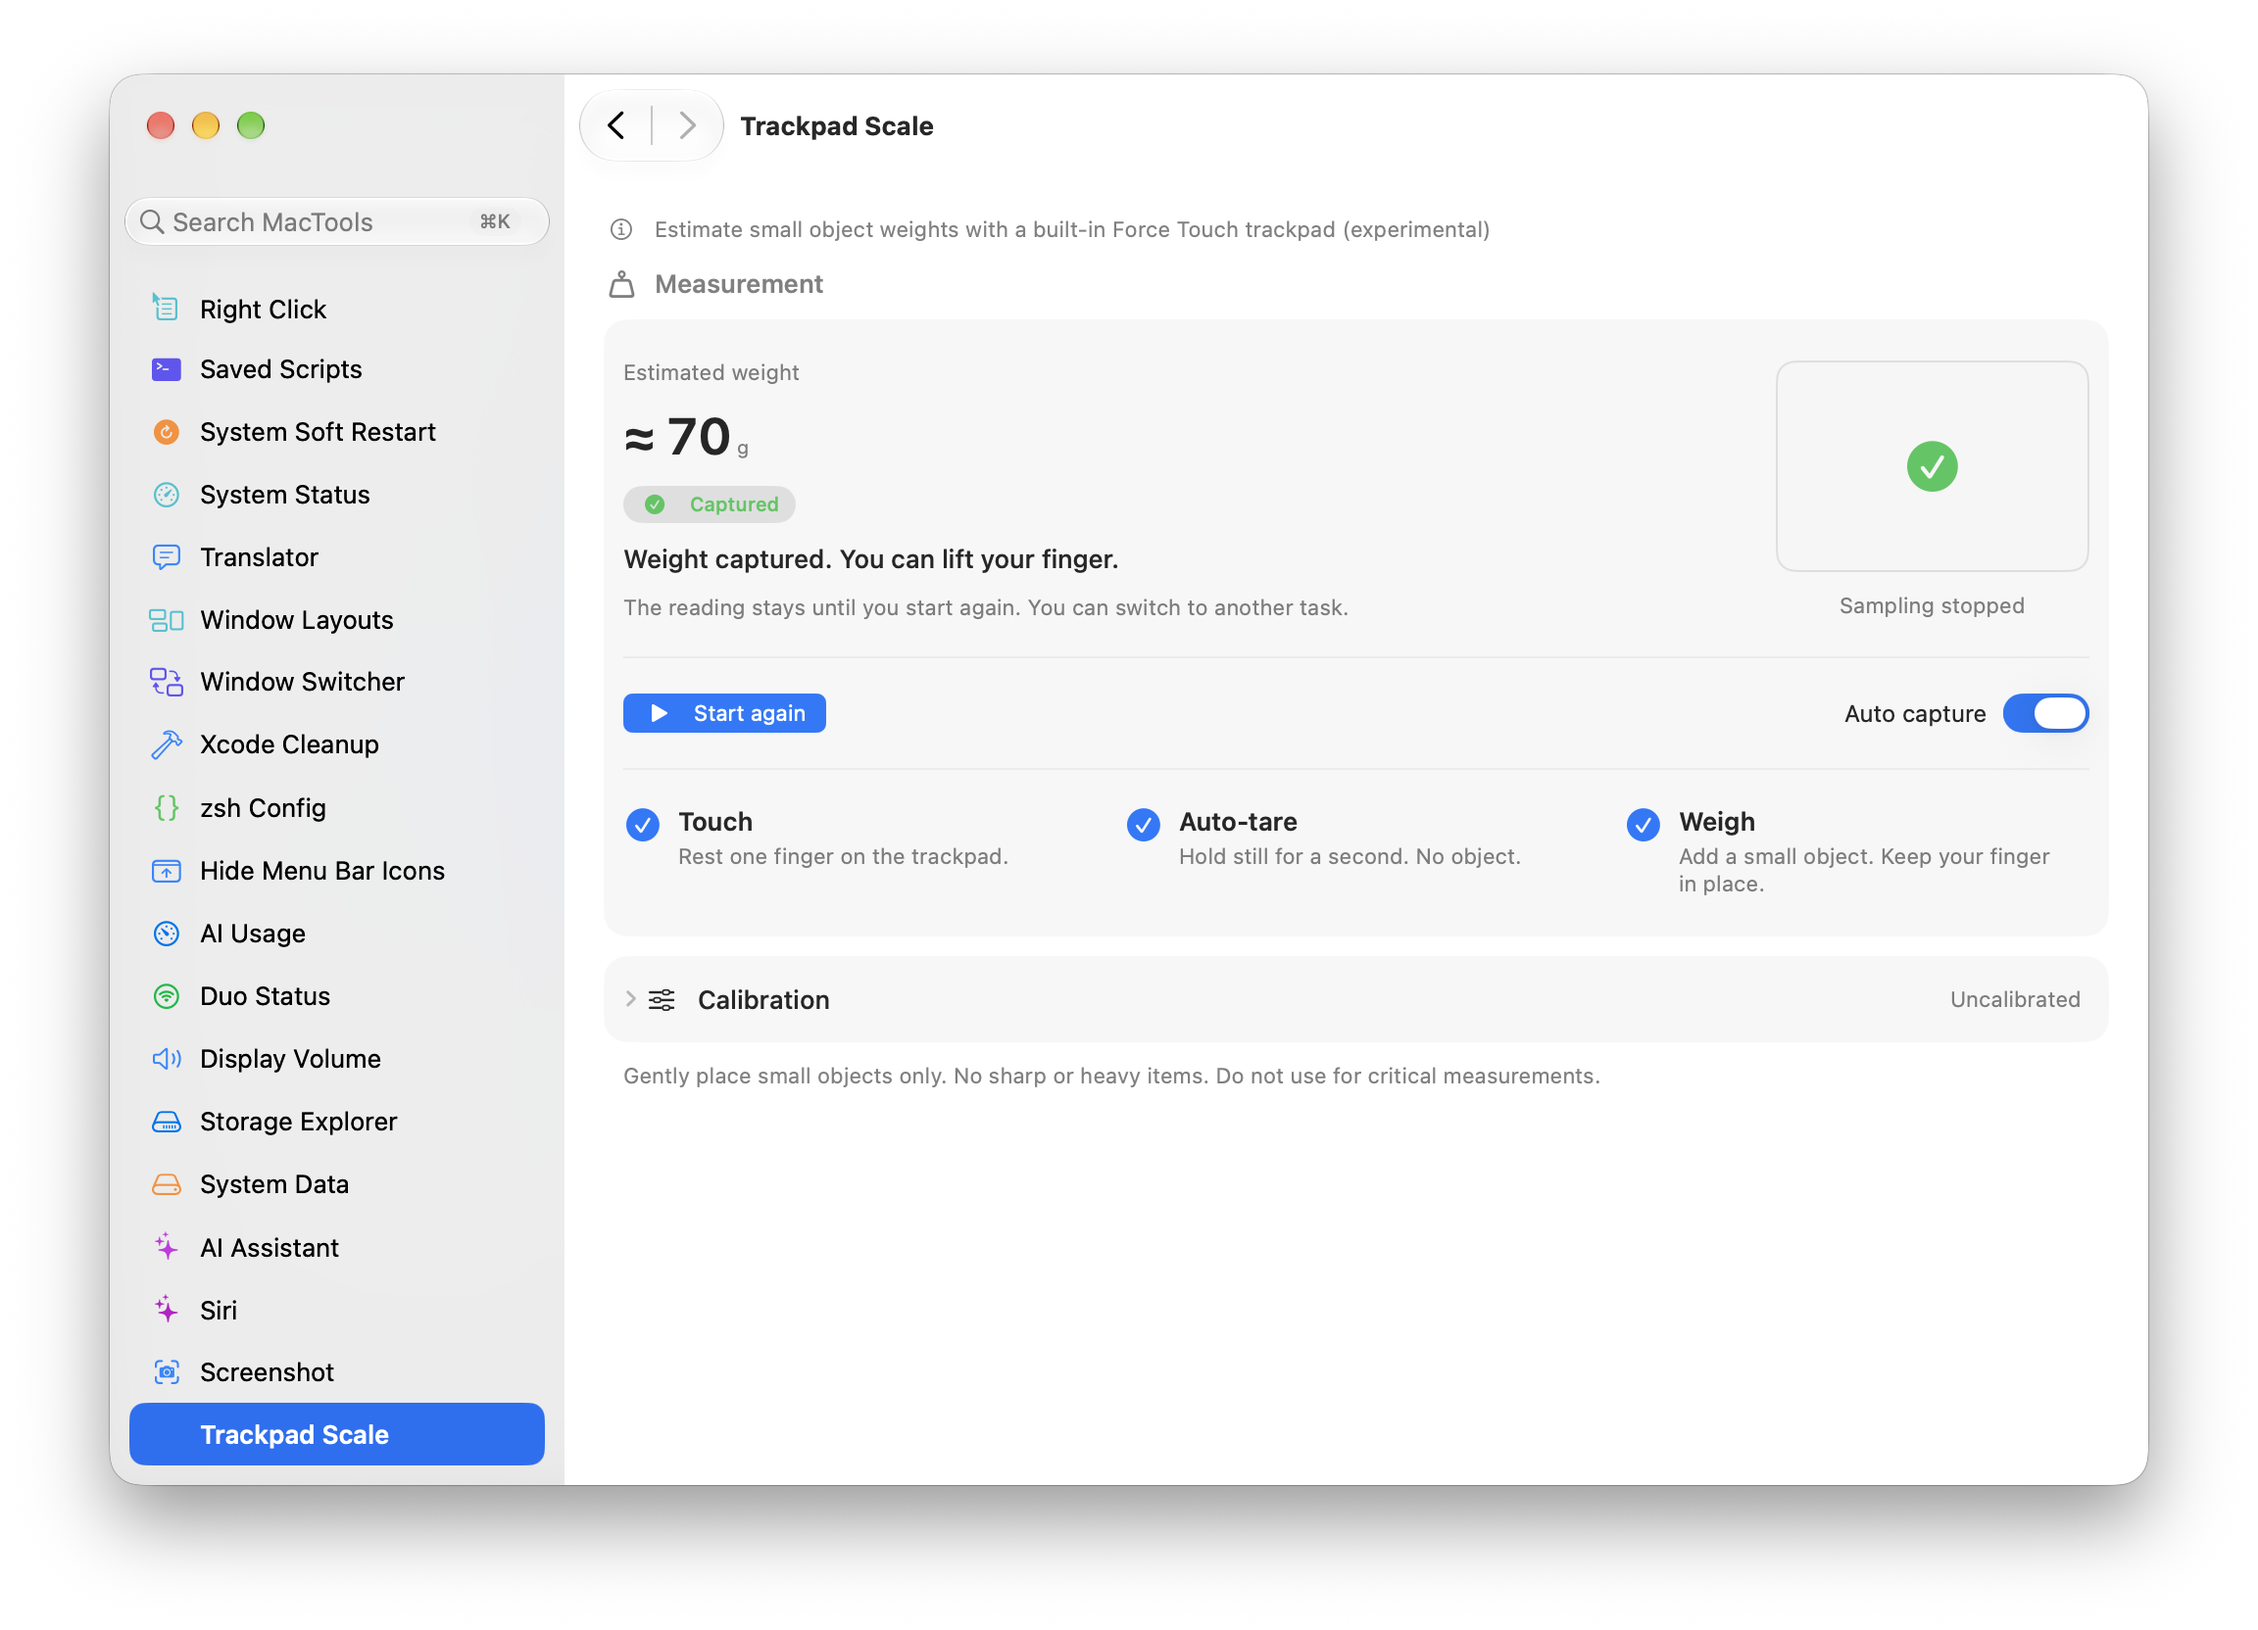
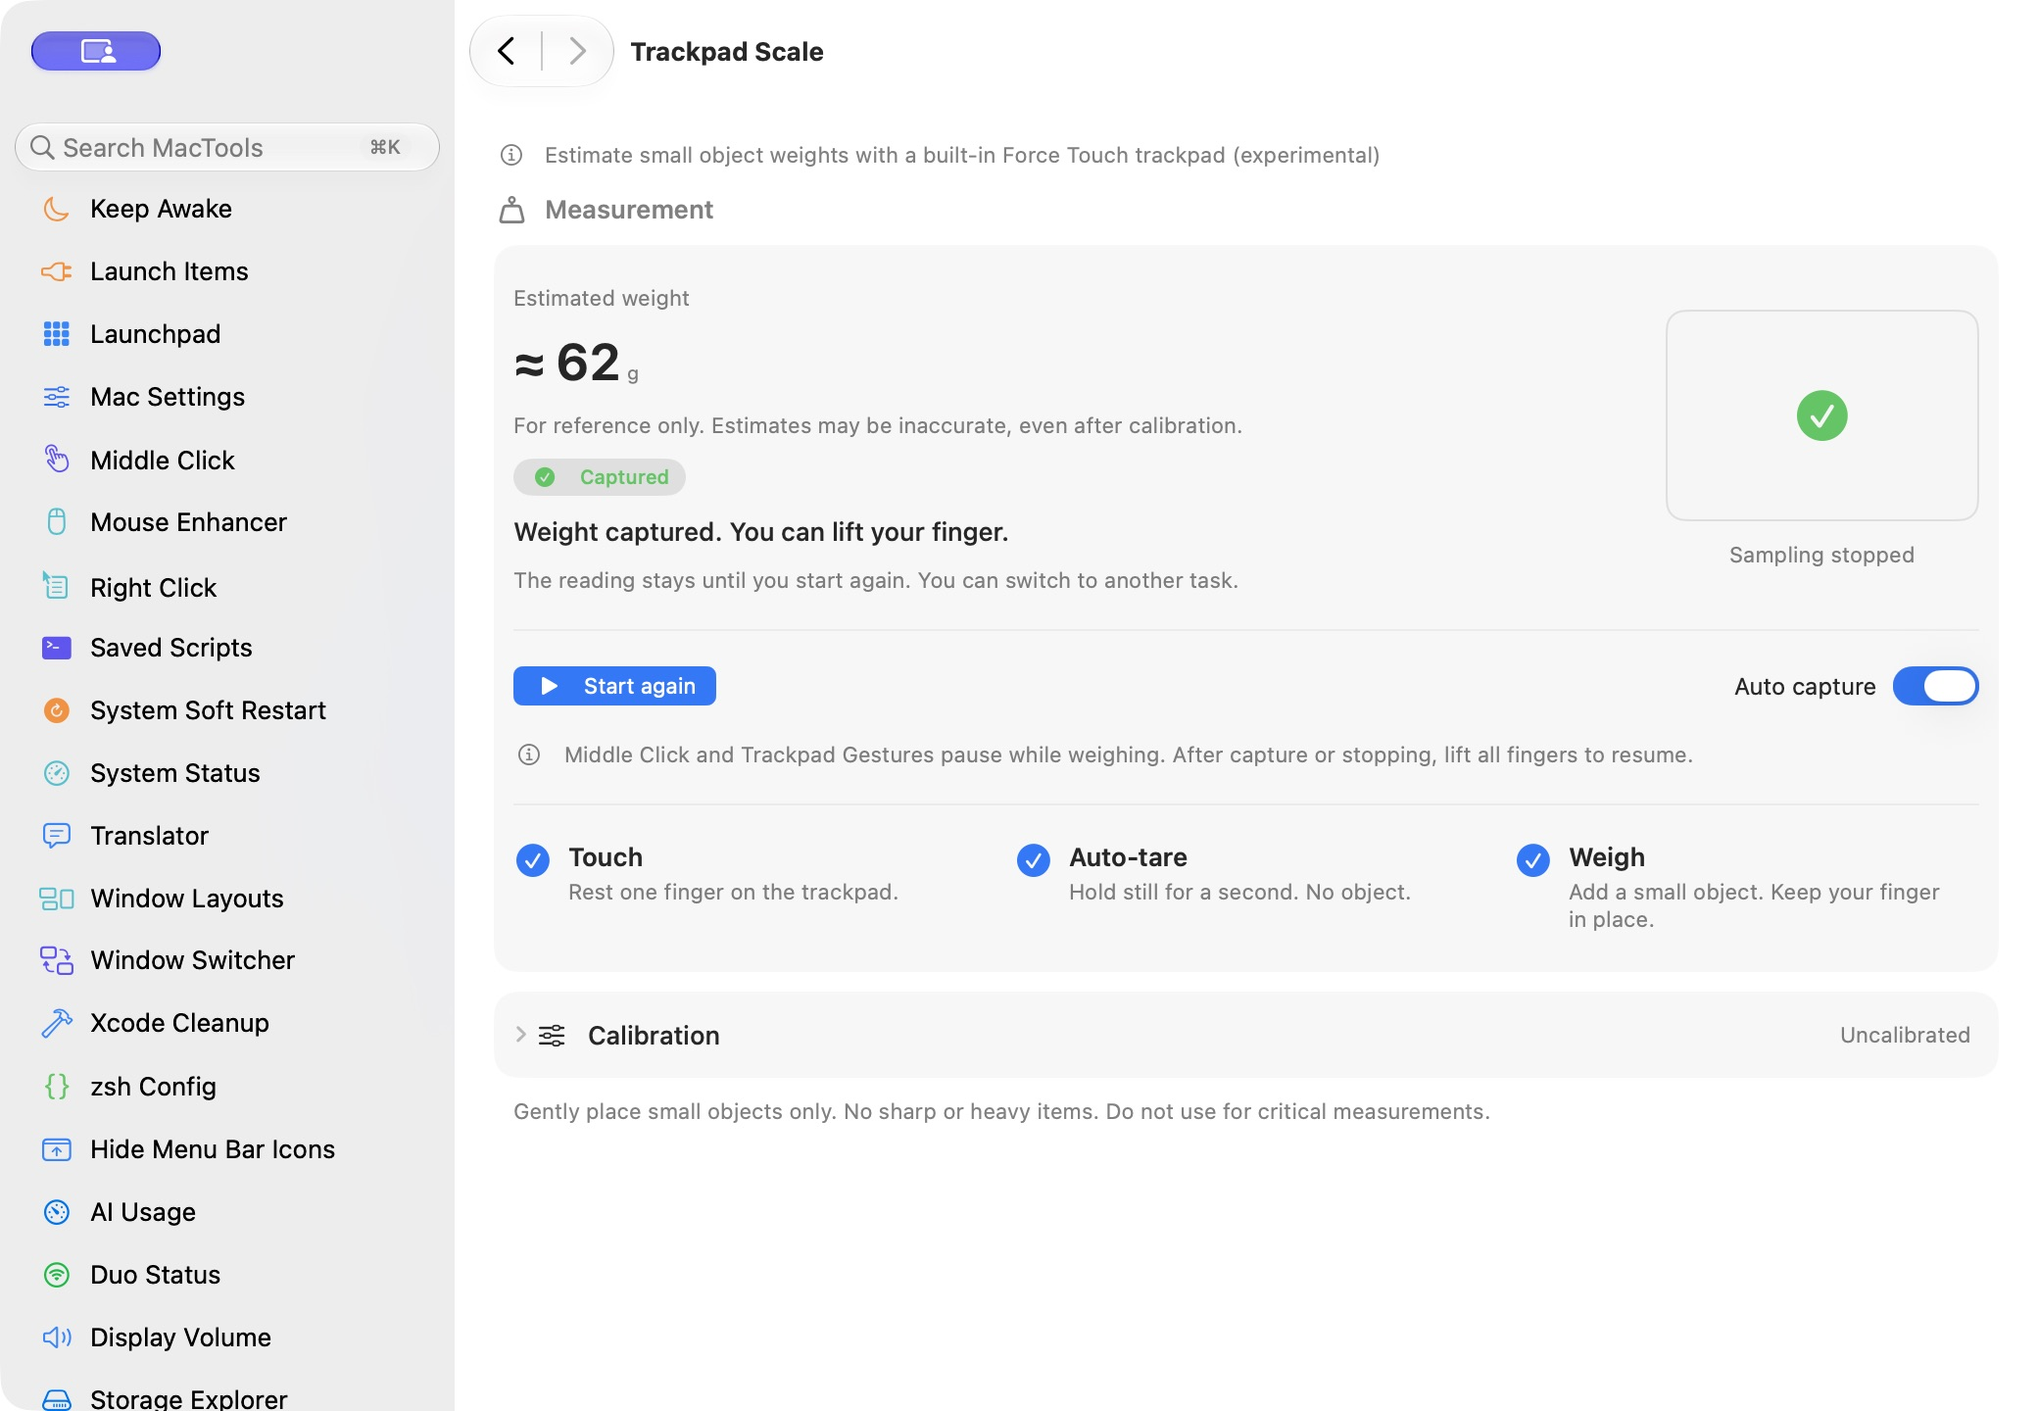
Refresh Trackpad Scale screenshots with accuracy warning

diff --git a/docs/plugins/trackpad-scale.md b/docs/plugins/trackpad-scale.md
@@ -21,13 +21,13 @@ The contact indicator reports valid finger contact rather than the finger's phys
 
 ## UI preview
 
-The focused settings page shows the estimate, finger contact, and **Touch → Auto-tare → Weigh** steps, with calibration collapsed by default. The native screenshots below show a real captured estimate on a built-in Force Touch trackpad. The displayed ≈70 g reading demonstrates capture and retention; comparison against an independently known weight remains pending.
+The focused settings page shows the estimate, finger contact, and **Touch → Auto-tare → Weigh** steps, with calibration collapsed by default. These latest native screenshots show the persistent accuracy warning beside a real captured estimate and the gesture-pause notice below Start/Stop. The displayed ≈62 g reading demonstrates capture and retention on a built-in Force Touch trackpad; comparison against an independently known weight remains pending.
 
-![Trackpad Scale with a captured estimate, sampling stopped, and Auto capture enabled](images/trackpad-scale-captured.png)
+![Trackpad Scale captured estimate with the accuracy warning and Auto capture enabled](images/trackpad-scale-captured.png)
 
 Calibration contains manual **Tare / 归零** with **⌘T** and the known-weight controls. The controls are disabled in this screenshot because the captured session has stopped.
 
-![Trackpad Scale with Calibration expanded and manual Tare with the Command-T shortcut](images/trackpad-scale-calibration.jpg)
+![Trackpad Scale accuracy warning and expanded Calibration with Tare and Command-T](images/trackpad-scale-calibration.png)
 
 ## Measurement and recovery
 
